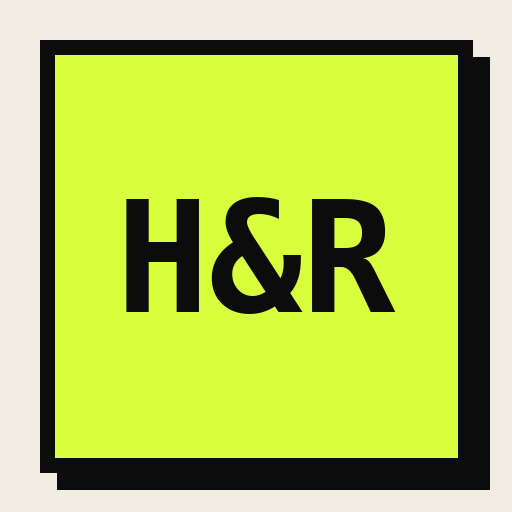
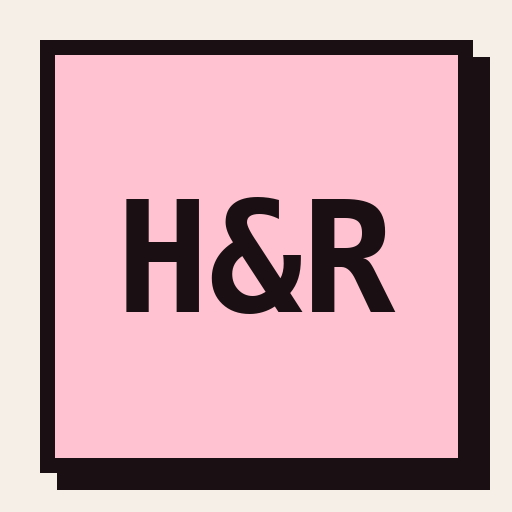
feat: terapkan palet A "Blush & Burgundy"
Token warna diganti (kertas krem hangat, sorot merah muda, aksi merah anggur,
tinta merah-hitam), termasuk theme-color, manifest PWA, ikon aplikasi, dan
dokumen desain beserta rasio kontras yang dihitung ulang (semua lolos AA).
Nama token acid dan electric dipertahankan sebagai nama lama.

diff --git a/apps/web/src/styles.css b/apps/web/src/styles.css
@@ -6,21 +6,21 @@
 
 /* Token desain: docs/design.md dan docs/design-tokens.json. Skala spacing Tailwind tidak ditimpa. */
 @theme {
-  --color-bone: #f1ede2;
-  --color-bone-2: #e6e1d3;
+  --color-bone: #f6efe7;
+  --color-bone-2: #eadfd1;
   --color-paper: #ffffff;
-  --color-ink: #0c0c0c;
-  --color-ink-soft: #4a4842;
-  --color-acid: #d8ff3e;
-  --color-electric: #2b2be8;
-  --color-alert: #c4271e;
-  --color-ok: #077045;
+  --color-ink: #1a1014;
+  --color-ink-soft: #5a4850;
+  --color-acid: #ffc2d1;
+  --color-electric: #7a1230;
+  --color-alert: #b3261e;
+  --color-ok: #1f6b45;
   --color-tone-1: #ffb84d;
   --color-tone-2: #7de0a6;
   --color-tone-3: #8fd8f0;
   --color-tone-4: #c4b5fd;
   /* Hanya di dalam input putih: di atas bone kontrasnya 4,2:1. */
-  --color-placeholder: #72716c;
+  --color-placeholder: #76696f;
 
   --font-display: "Space Grotesk Variable", "Space Grotesk", ui-sans-serif, system-ui, sans-serif;
   --font-mono: "IBM Plex Mono", ui-monospace, SFMono-Regular, monospace;

diff --git a/apps/web/vite.config.ts b/apps/web/vite.config.ts
@@ -22,8 +22,8 @@ export default defineConfig({
         scope: "/",
         display: "standalone",
         orientation: "portrait",
-        background_color: "#f1ede2",
-        theme_color: "#d8ff3e",
+        background_color: "#f6efe7",
+        theme_color: "#ffc2d1",
         icons: [
           { src: "icon-192.png", sizes: "192x192", type: "image/png" },
           { src: "icon-512.png", sizes: "512x512", type: "image/png" },

diff --git a/apps/web/index.html b/apps/web/index.html
@@ -3,7 +3,7 @@
   <head>
     <meta charset="UTF-8" />
     <meta name="viewport" content="width=device-width, initial-scale=1.0, viewport-fit=cover" />
-    <meta name="theme-color" content="#d8ff3e" />
+    <meta name="theme-color" content="#ffc2d1" />
     <link rel="apple-touch-icon" href="/apple-touch-icon.png" />
     <title>Hasri & Ramli</title>
   </head>

diff --git a/docs/design.md b/docs/design.md
@@ -1,6 +1,6 @@
 # Desain — Brutalis Terang (admin dan scanner)
 
-> Krem berpola titik, garis hitam 2px, bayangan keras tanpa blur, sudut siku, satu warna aksen neon.
+> Krem berpola titik, garis hitam 2px, bayangan keras tanpa blur, sudut siku, satu warna sorot (merah muda) dan satu warna aksi (merah anggur).
 
 **Sumber:** 9 tangkapan layar halaman situs programmerzamannow.com (lebar mobile 593px; foldernya sudah dihapus dari repo), tangkapan layar desktop 1440px halaman publiknya yang saya ambil kemudian, dan CSS situs itu sendiri. Token warna, font, bayangan, dan pola latar **diambil langsung dari CSS situs**, bukan ditebak dari gambar. Ini rujukan gaya; logo, ilustrasi, dan teks mereka tidak dipakai.
 
@@ -12,10 +12,10 @@ Asal tiap nilai ditandai: **[css]** dari CSS situs, **[ukur]** diukur dari pikse
 
 ## 1. Karakter
 
-- Latar krem `#f1ede2` dengan **pola titik** 22px. Kartu putih di atasnya.
+- Latar krem `#f6efe7` dengan **pola titik** 22px. Kartu putih di atasnya.
 - **Semua kotak** punya border hitam 2px dan **sudut siku** (radius 0).
 - **Bayangan keras**: hitam pekat, offset 3 sampai 9px, tanpa blur.
-- Satu warna aksen neon (**acid** `#d8ff3e`) untuk penekanan, satu biru (**electric** `#2b2be8`) untuk aksi utama.
+- Satu warna sorot (**acid** `#ffc2d1`, merah muda) untuk penekanan, satu merah anggur (**electric** `#7a1230`) untuk aksi utama. Nama token `acid` dan `electric` adalah sisa palet lama (hijau neon dan biru); nilainya sudah palet A "Blush & Burgundy" (dipilih 21 Okt 2026).
 - Judul huruf kapital tebal dengan tracking rapat; label kecil huruf kapital monospace dengan tracking lebar.
 - Interaksi terasa mekanis: hover mengangkat kotak, tekan menekannya ke bawah.
 
@@ -23,35 +23,35 @@ Asal tiap nilai ditandai: **[css]** dari CSS situs, **[ukur]** diukur dari pikse
 
 | Token | Hex | Utility | Peran |
 |---|---|---|---|
-| `bone` | `#f1ede2` | `bg-bone` | Latar halaman, tab nonaktif |
-| `bone-2` | `#e6e1d3` | `bg-bone-2` | Kotak ikon, avatar, titik pola, hover lembut |
+| `bone` | `#f6efe7` | `bg-bone` | Latar halaman, tab nonaktif |
+| `bone-2` | `#eadfd1` | `bg-bone-2` | Kotak ikon, avatar, titik pola, hover lembut |
 | `paper` | `#ffffff` | `bg-paper` | Kartu, input |
-| `ink` | `#0c0c0c` | `text-ink`, `border-ink` | Teks utama, border, bayangan, bagian gelap |
-| `ink-soft` | `#4a4842` | `text-ink-soft` | Teks pendukung (paragraf, keterangan) |
-| `acid` | `#d8ff3e` | `bg-acid` | Aksen: tag, kartu sorot, tab aktif, ikon fitur |
-| `electric` | `#2b2be8` | `bg-electric` | Tombol aksi utama, kata yang ditonjolkan |
-| `alert` | `#c4271e` | `text-alert`, `bg-alert` | Error, hapus, terkunci |
-| `ok` | `#077045` | `text-ok`, `bg-ok` | Sukses |
+| `ink` | `#1a1014` | `text-ink`, `border-ink` | Teks utama, border, bayangan, bagian gelap |
+| `ink-soft` | `#5a4850` | `text-ink-soft` | Teks pendukung (paragraf, keterangan) |
+| `acid` | `#ffc2d1` | `bg-acid` | Aksen: tag, kartu sorot, tab aktif, ikon fitur |
+| `electric` | `#7a1230` | `bg-electric` | Tombol aksi utama, kata yang ditonjolkan |
+| `alert` | `#b3261e` | `text-alert`, `bg-alert` | Error, hapus, terkunci |
+| `ok` | `#1f6b45` | `text-ok`, `bg-ok` | Sukses |
 | `tone-1` | `#ffb84d` | `bg-tone-1` | Oranye/kuning pastel |
 | `tone-2` | `#7de0a6` | `bg-tone-2` | Hijau pastel |
 | `tone-3` | `#8fd8f0` | `bg-tone-3` | Biru muda pastel |
 | `tone-4` | `#c4b5fd` | `bg-tone-4` | Ungu pastel |
 
-[css] untuk semua nilai di atas. Warna `tone-*` ada di CSS situs tetapi **tidak terlihat dipakai di tangkapan layar**; peran pastinya tidak diketahui. Di proyek ini dipakai untuk warna kelompok tamu dan status [usul]. Satu-satunya abu-abu tambahan yang terlihat di gambar adalah `#72716c` (placeholder input), bukan token resmi.
+[css] untuk semua nilai di atas. Warna `tone-*` ada di CSS situs tetapi **tidak terlihat dipakai di tangkapan layar**; peran pastinya tidak diketahui. Di proyek ini dipakai untuk warna kelompok tamu dan status [usul]. Satu-satunya abu-abu tambahan yang terlihat di gambar adalah `#76696f` (placeholder input), bukan token resmi.
 
 ### Kontras (dihitung WCAG)
 
 | Pasangan | Rasio | Hasil |
 |---|---|---|
-| `ink` di atas `bone` / `paper` | 16,7 / 19,6 | AA, semua ukuran |
-| `ink-soft` di atas `bone` / `paper` | 7,8 / 9,1 | AA |
-| `paper` di atas `electric` | 8,0 | AA |
-| `ink` di atas `acid` | 17,0 | AA |
-| `alert` di atas `paper` / `bone` | 5,7 / 4,9 | AA |
-| `ok` di atas `paper` / `bone` | 6,2 / 5,3 | AA |
-| `ink` di atas `tone-1` sampai `tone-4` | 10,6 sampai 12,3 | AA |
-| `#72716c` di atas `paper` | 4,9 | AA, **hanya di atas putih** |
-| `#72716c` di atas `bone` | 4,2 | **Gagal** untuk teks kecil |
+| `ink` di atas `bone` / `paper` | 16,3 / 18,6 | AA, semua ukuran |
+| `ink-soft` di atas `bone` / `paper` | 7,4 / 8,5 | AA |
+| `paper` di atas `electric` | 10,7 | AA |
+| `ink` di atas `acid` | 12,3 | AA |
+| `alert` di atas `paper` / `bone` | 6,5 / 5,7 | AA |
+| `ok` di atas `paper` / `bone` | 6,5 / 5,8 | AA |
+| `ink` di atas `tone-1` sampai `tone-4` | 10,8 sampai 12,3 | AA |
+| `#76696f` di atas `paper` | 5,2 | AA, **hanya di atas putih** |
+| `#76696f` di atas `bone` | 4,6 | AA tipis; tetap hanya di atas putih |
 
 Aturan: teks pendukung memakai `ink-soft`. Placeholder boleh abu-abu hanya di dalam input putih.
 
@@ -120,7 +120,7 @@ Semua komponen di bawah terlihat di tangkapan layar. Kolom "Dipakai di" adalah r
 
 | Komponen | Anatomi | Dipakai di |
 |---|---|---|
-| **Header** | Logo bulat + nama (Space Grotesk kapital 14px), garis bawah 3px. **Mobile:** tombol menu persegi (border + bayangan 3px). **Desktop:** tautan navigasi horizontal (kapital 13px, tracking 0,06em; item aktif berlatar `acid`) dan tombol biru di kanan | Bar atas admin |
+| **Header** | Logo bulat + nama (Space Grotesk kapital 14px), garis bawah 3px. **Mobile:** tombol menu persegi (border + bayangan 3px). **Desktop:** tautan navigasi horizontal (kapital 13px, tracking 0,06em; item aktif berlatar `acid`) dan tombol aksi di kanan | Bar atas admin |
 | **Header halaman** | Tag acid, H1 kapital, paragraf `ink-soft`, garis 2px di bawah | Judul tiap halaman |
 | **Tag** | Latar `acid`, border 2px, `.tag` mono 12px; bisa diawali titik `●` | Kategori halaman, status "SESI INI" |
 | **Pil meta** | Putih, border 1px, mono 12px, ikon + teks (`20 soal`, `30 menit`) | Info kecil di kartu |
@@ -176,9 +176,9 @@ Palet ini sudah punya warna fungsional, jadi scanner tidak perlu keluar dari des
 
 | Hasil scan | Latar | Teks | Catatan |
 |---|---|---|---|
-| Berhasil | `ok` `#077045` | putih | Nama besar, kuota, tombol jumlah orang |
+| Berhasil | `ok` `#1f6b45` | putih | Nama besar, kuota, tombol jumlah orang |
 | Sudah masuk | `tone-1` `#ffb84d` | `ink` | Jam dan perangkat yang sudah menerima |
-| Tidak valid | `alert` `#c4271e` | putih | Pesan singkat |
+| Tidak valid | `alert` `#b3261e` | putih | Pesan singkat |
 | **VIP** | `acid` dengan bingkai `ink` tebal 8px dan label sudut `VIP` | `ink` | Berbeda jelas dari tiga hasil lain |
 
 Aturan scanner: tombol minimal 56px, bayangan keras tetap dipakai, tanpa animasi hover (perangkat sentuh), getar dan suara untuk umpan balik. Rincian layar dirancang di fase 3.
@@ -188,14 +188,14 @@ Aturan scanner: tombol minimal 56px, bayangan keras tetap dipakai, tanpa animasi
 **Lakukan**
 - Border 2px hitam di semua kotak, radius 0.
 - Bayangan keras `ink` dan tingkatan 3, 4, 6, 9px.
-- Satu aksen (`acid`) dan satu biru aksi (`electric`) per layar; sisanya `ink`, putih, dan krem.
+- Satu sorot (`acid`) dan satu warna aksi (`electric`) per layar; sisanya `ink`, putih, dan krem.
 - Judul kapital Space Grotesk; label kapital IBM Plex Mono.
 - Hover mengangkat, tekan menenggelamkan.
 
 **Jangan**
 - Jangan memakai radius, blur, gradasi, atau bayangan berwarna (kecuali bayangan `acid` di atas latar `ink`).
 - Jangan memakai pola titik di balik data padat.
-- Jangan memakai `#72716c` di atas krem.
+- Jangan memakai `#76696f` di atas krem.
 - Jangan mengkapitalkan nama tamu atau data pengguna.
 - Jangan menumpuk lebih dari satu kartu sorot `acid` dalam satu layar.
 - Jangan menaruh `acid` untuk teks di atas putih (hampir tak terlihat); `acid` hanya sebagai latar dengan teks `ink`.

diff --git a/CLAUDE.md b/CLAUDE.md
@@ -6,7 +6,7 @@ This file provides guidance to Claude Code (claude.ai/code) when working with co
 
 Wedding system for Hasri & Ramli (event 21 May 2027): guest management, message links, and **offline-first QR check-in** for door staff. A ground-up rebuild on branch `rewrite`; the old Go + Next.js code lives only at tag `legacy-v1`. One wedding, no multi-tenancy, Indonesian UI only. Code comments, docs, error messages and commit messages are in Indonesian; match that.
 
-`docs/rancangan.md` is the approved design (schema, API, offline sync, phases) and §14 records where the implementation deliberately diverged from it. Read it before changing sync, check-in or schema. `docs/design.md` + `docs/design-tokens.json` define the "light brutalist" admin look (cream + dot pattern, 2px black borders, hard shadows, radius 0, acid `#d8ff3e` / electric `#2b2be8`).
+`docs/rancangan.md` is the approved design (schema, API, offline sync, phases) and §14 records where the implementation deliberately diverged from it. Read it before changing sync, check-in or schema. `docs/design.md` + `docs/design-tokens.json` define the "light brutalist" admin look (cream + dot pattern, 2px black borders, hard shadows, radius 0, acid `#ffc2d1` / electric `#7a1230`; palette A "Blush & Burgundy", token names `acid`/`electric` are legacy names for highlight pink and burgundy action).
 
 Phases 1–5 (foundation, guests, scanner/check-in/devices/dashboard, e-ticket/RSVP, invitation content) are done. Phase 5 delivered the guestbook, the media system (admin uploads, stored on the server) and the admin menu "Undangan" with tabs for couple profile, story, gallery, digital envelope, FAQ, wishlist (guests claim items), layout (cover, live-stream link, section order/visibility) and guestbook replies; guests see it on `/u/CODE/undangan` while `/u/CODE` is only ticket, events and RSVP. Same light-brutalist style as the admin. Decisions are in `docs/rancangan.md` §14 (Fase 5). Phase 6 is in progress: received gifts (`/admin/hadiah`: envelopes, transfers and items given, with a thanked flag) and vendors with their payments (`/admin/vendor`: categories, candidates, one selected per category, payment status from contract vs. payments) are done. Don't propose other stacks or dropped features (dynamic RBAC, Google OAuth, multi-tenant, seating plans).
 
